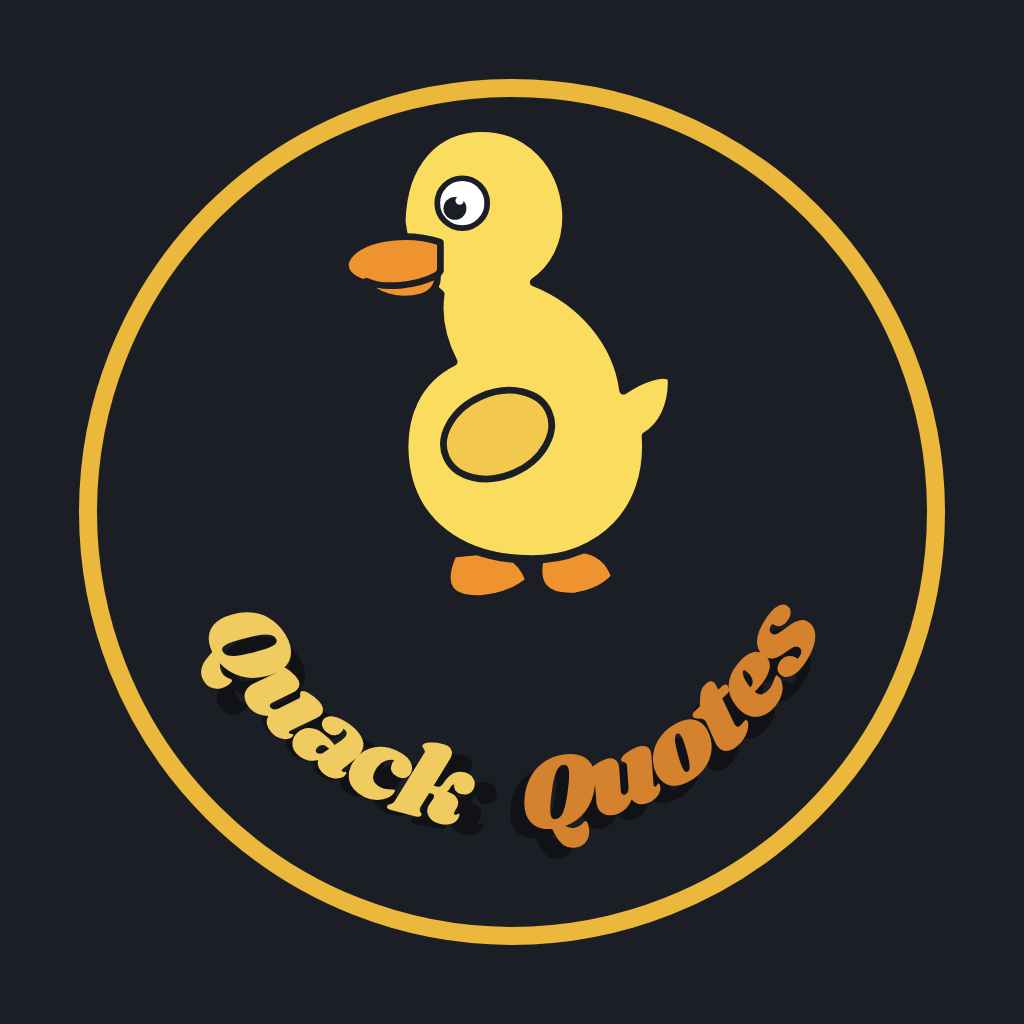
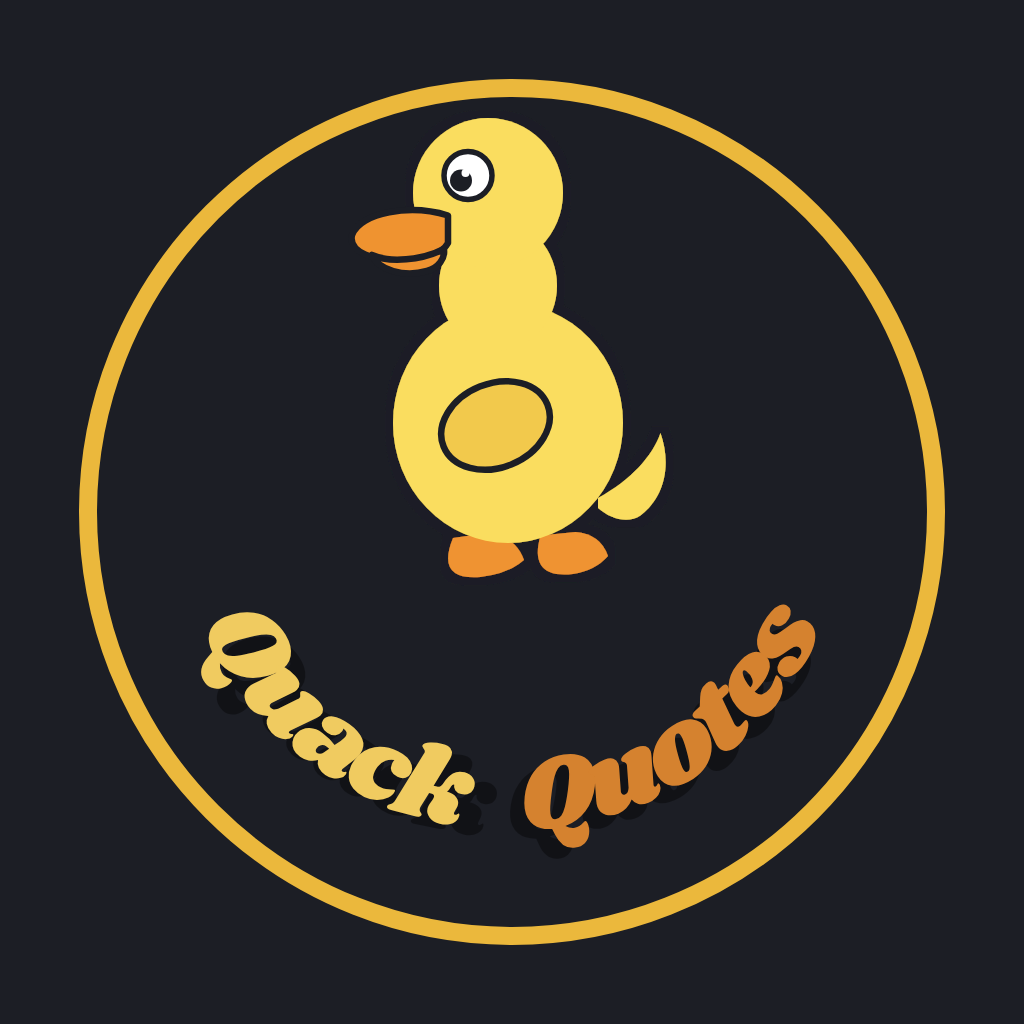
Rebuild badge duck from clean geometric shapes
Replaces the freehand bezier silhouette that looked lumpy with a
circle head, egg body, and blending neck ellipse unified by a
dilate-filter outline. Fixes the deformed look.

Claude-Session: https://claude.ai/code/session_012467A8UUDkraxz4zEEiL3r

diff --git a/quackquotes-badge.html b/quackquotes-badge.html
@@ -21,38 +21,43 @@
   <rect width="1024" height="1024" fill="#1C1E25"/>
   <circle cx="512" cy="512" r="424" fill="none" stroke="#EBB83C" stroke-width="18"/>
 
-  <!-- duck mascot, drawn in a 700x1000 box, scaled and centered -->
-  <g transform="translate(326,94) scale(0.52)">
-    <!-- feet, behind the body -->
-    <g fill="#EF9330" stroke="#1C1E25" stroke-width="13" stroke-linejoin="round">
-      <path d="M 245 885 Q 205 975 300 970 Q 355 965 390 935 Q 372 883 315 878 Z"/>
-      <path d="M 415 883 Q 390 972 480 965 Q 528 958 555 928 Q 538 880 490 876 Z"/>
+  <!-- duck mascot, built from clean geometric shapes; the outline filter
+       dilates the union silhouette so the whole duck gets one uniform border -->
+  <defs>
+    <filter id="outline" x="-10%" y="-10%" width="120%" height="120%">
+      <feMorphology in="SourceAlpha" operator="dilate" radius="15" result="dil"/>
+      <feFlood flood-color="#1C1E25"/>
+      <feComposite in2="dil" operator="in" result="edge"/>
+      <feMerge>
+        <feMergeNode in="edge"/>
+        <feMergeNode in="SourceGraphic"/>
+      </feMerge>
+    </filter>
+  </defs>
+  <g transform="translate(328,93) scale(0.5)">
+    <g filter="url(#outline)">
+      <!-- feet -->
+      <path fill="#EF9330" d="M 250 890 Q 215 975 305 968 Q 360 962 392 934 Q 375 885 318 880 Z"/>
+      <path fill="#EF9330" d="M 425 885 Q 400 972 490 962 Q 535 955 560 926 Q 545 882 495 878 Z"/>
+      <!-- tail flick -->
+      <path fill="#FADD5F" d="M 540 810 C 605 775 650 725 665 680 C 688 745 672 810 625 845 C 600 862 565 852 540 830 Z"/>
+      <!-- body, neck, head -->
+      <ellipse cx="360" cy="660" rx="230" ry="240" fill="#FADD5F"/>
+      <ellipse cx="340" cy="385" rx="118" ry="130" fill="#FADD5F"/>
+      <circle cx="320" cy="200" r="150" fill="#FADD5F"/>
     </g>
-    <!-- body and head silhouette -->
-    <path fill="#FADD5F" stroke="#1C1E25" stroke-width="16" stroke-linejoin="round" d="M 300 65
-      C 390 65 455 135 462 225
-      C 466 285 440 335 400 362
-      C 495 400 560 480 572 570
-      C 610 545 650 532 665 545
-      C 668 600 645 640 615 658
-      C 625 800 530 895 395 895
-      C 260 895 165 825 152 705
-      C 143 620 175 550 245 515
-      C 222 470 214 425 220 385
-      C 185 355 152 310 145 245
-      C 148 130 212 65 300 65 Z"/>
     <!-- wing -->
-    <ellipse cx="330" cy="655" rx="108" ry="80" transform="rotate(-24 330 655)"
+    <ellipse cx="335" cy="665" rx="112" ry="84" transform="rotate(-22 335 665)"
       fill="#F2C94C" stroke="#1C1E25" stroke-width="13"/>
     <!-- bill, two lobes -->
     <path fill="#EF9330" stroke="#1C1E25" stroke-width="13" stroke-linejoin="round"
-      d="M 220 285 C 150 262 55 278 38 322 C 30 355 80 372 135 372 C 175 372 210 360 220 340 Z"/>
+      d="M 240 245 C 165 222 65 238 48 284 C 40 318 92 336 148 336 C 190 336 228 322 240 300 Z"/>
     <path fill="#EF9330" stroke="#1C1E25" stroke-width="13" stroke-linejoin="round"
-      d="M 214 348 C 172 370 110 375 78 360 C 90 388 140 402 184 390 C 206 383 216 366 214 350 Z"/>
+      d="M 232 312 C 188 335 122 340 88 324 C 100 354 152 369 198 356 C 222 349 234 330 232 314 Z"/>
     <!-- eye -->
-    <circle cx="262" cy="210" r="48" fill="#FFFFFF" stroke="#1C1E25" stroke-width="11"/>
-    <circle cx="248" cy="220" r="22" fill="#1C1E25"/>
-    <circle cx="257" cy="205" r="8" fill="#FFFFFF"/>
+    <circle cx="280" cy="165" r="48" fill="#FFFFFF" stroke="#1C1E25" stroke-width="11"/>
+    <circle cx="266" cy="175" r="22" fill="#1C1E25"/>
+    <circle cx="275" cy="160" r="8" fill="#FFFFFF"/>
   </g>
 
   <!-- curved lettering along the bottom -->
